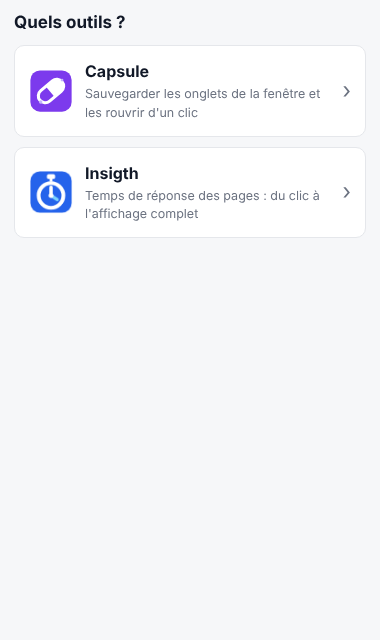
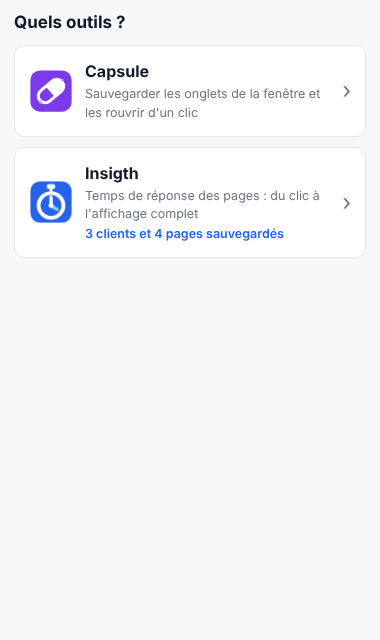
Accueil : nombre de clients et de pages sauvegardés sous Insigth
Comme le compteur de sessions de Capsule, la carte Insigth de « Quels outils ? »
affiche par exemple « 3 clients et 10 pages sauvegardés » (référentiel des
réglages et mesures, sans doublon ; accords singulier / pluriel).

Claude-Session: https://claude.ai/code/session_01XFxuiKgiepPHVpmAe4mHXJ

Changed region(s): [[0.2316, 0.3438, 0.7526, 0.375], [0.0579, 0.25, 0.2026, 0.375], [0.8974, 0.2812, 0.9263, 0.3438]]

diff --git a/extension/panel/home.js b/extension/panel/home.js
@@ -1,6 +1,9 @@
 // Accueil du panneau latéral : « Quels outils ? » (Capsule, Insigth).
 // Affiché à chaque ouverture du panneau, sauf pendant une mesure Insigth en cours.
 import { getCapsules } from '../lib/capsule.js';
+import { getConfig, getMeasures } from '../lib/storage.js';
+import { buildModel } from '../lib/report.js';
+import { savedText } from '../lib/format.js';
 
 const ACTIVE = ['armed', 'measuring', 'rearming'];
 const chosen = new URLSearchParams(location.search).has('choose'); // retour volontaire depuis un outil
@@ -14,10 +17,14 @@ async function init() {
     return location.replace('panel.html');
   }
   if (!chosen && isActive(session)) return location.replace('panel.html');
-  const n = (await getCapsules()).length;
+  const [capsules, { apps, pages }, measures] = await Promise.all([getCapsules(), getConfig(), getMeasures()]);
+  const n = capsules.length;
   document.getElementById('capsuleCount').textContent = n
     ? `${n} session${n > 1 ? 's' : ''} sauvegardée${n > 1 ? 's' : ''}`
     : '';
+  // Clients et pages d'Insigth : référentiel (Réglages) et mesures, sans doublon
+  const model = buildModel(measures, apps, pages);
+  document.getElementById('insigthCount').textContent = savedText(model.clients.length, model.allPages.length);
 }
 
 // Mesure lancée au raccourci clavier pendant que l'accueil est affiché : on passe sur Insigth.

diff --git a/extension/lib/format.js b/extension/lib/format.js
@@ -47,3 +47,17 @@ export function fmtDate(ts) {
 export function fileStamp(date = new Date()) {
   return `${date.getFullYear()}${pad(date.getMonth() + 1)}${pad(date.getDate())}-${pad(date.getHours())}${pad(date.getMinutes())}`;
 }
+
+/**
+ * Compteur de l'accueil sous Insigth : « 3 clients et 10 pages sauvegardés »,
+ * « 1 page sauvegardée », chaîne vide s'il n'y a rien.
+ */
+export function savedText(clients, pages) {
+  const parts = [];
+  if (clients) parts.push(`${nf.format(clients)} client${clients > 1 ? 's' : ''}`);
+  if (pages) parts.push(`${nf.format(pages)} page${pages > 1 ? 's' : ''}`);
+  if (!parts.length) return '';
+  const plural = clients + pages > 1 ? 's' : '';
+  const feminine = clients ? '' : 'e'; // accord au masculin dès qu'il y a un client
+  return `${parts.join(' et ')} sauvegardé${feminine}${plural}`;
+}

diff --git a/tests/unit/format.test.js b/tests/unit/format.test.js
@@ -1,0 +1,14 @@
+import { test } from 'node:test';
+import assert from 'node:assert/strict';
+import { savedText } from '../../extension/lib/format.js';
+
+test('compteur Insigth de l’accueil : clients et pages sauvegardés, accords', () => {
+  assert.equal(savedText(3, 10), '3 clients et 10 pages sauvegardés');
+  assert.equal(savedText(1, 1), '1 client et 1 page sauvegardés');
+  assert.equal(savedText(2, 0), '2 clients sauvegardés');
+  assert.equal(savedText(1, 0), '1 client sauvegardé');
+  assert.equal(savedText(0, 10), '10 pages sauvegardées');
+  assert.equal(savedText(0, 1), '1 page sauvegardée');
+  assert.equal(savedText(1500, 20), '1 500 clients et 20 pages sauvegardés');
+  assert.equal(savedText(0, 0), '');
+});

diff --git a/extension/panel/home.html b/extension/panel/home.html
@@ -28,6 +28,7 @@
         <span class="tool-text">
           <strong>Insigth</strong>
           <small>Temps de réponse des pages : du clic à l'affichage complet</small>
+          <small id="insigthCount" class="tool-count insigth"></small>
         </span>
         <span class="chev" aria-hidden="true">›</span>
       </a>

diff --git a/extension/panel/tools.css b/extension/panel/tools.css
@@ -69,6 +69,10 @@
   font-weight: 600;
 }
 
+.tool-text .tool-count.insigth {
+  color: var(--accent);
+}
+
 .tool-text .tool-count:empty {
   display: none;
 }

diff --git a/README.md b/README.md
@@ -23,6 +23,9 @@ de pages.
 - **Capsule** : sauvegarde les onglets de la fenêtre Chrome en cours et les rouvre d'un clic.
 - **Insigth** : mesure du temps de réponse des pages (tout le reste de ce document).
 
+Sous chaque outil, un compteur résume ce qui est enregistré : sessions de Capsule, et clients et pages
+d'Insigth (référentiel des réglages et pages mesurées, par exemple « 3 clients et 10 pages sauvegardés »).
+
 La flèche **‹** en haut à gauche ramène au choix de l'outil. Si une mesure Insigth est en cours, le
 panneau s'ouvre directement sur Insigth pour afficher le chrono.
 
